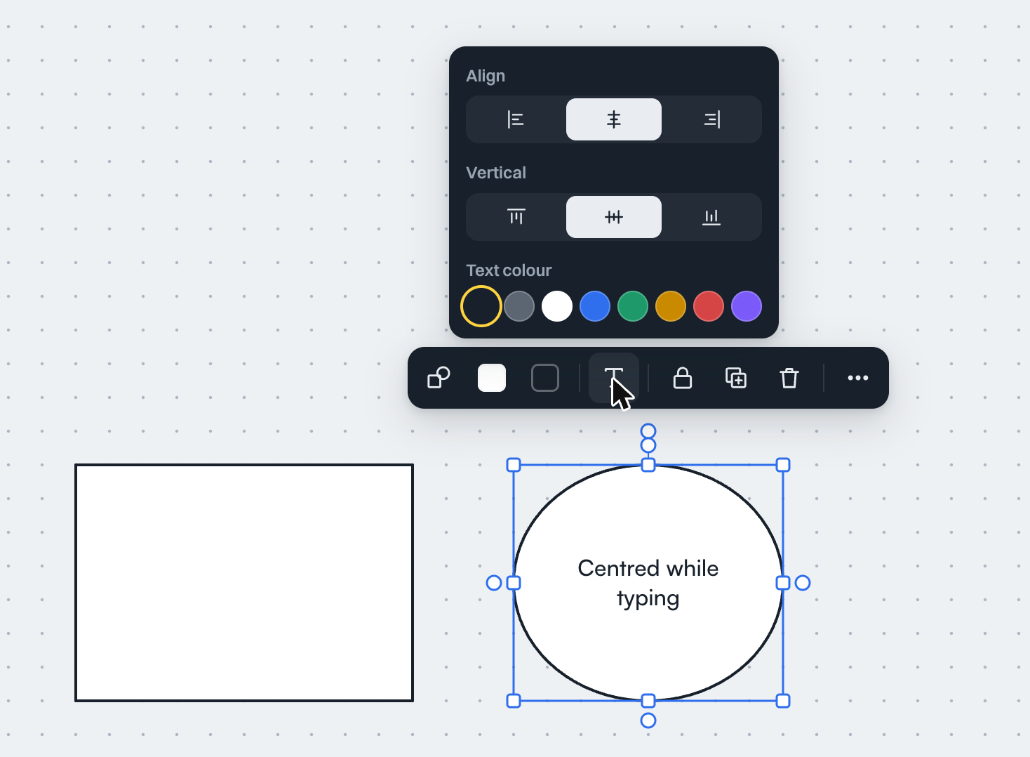
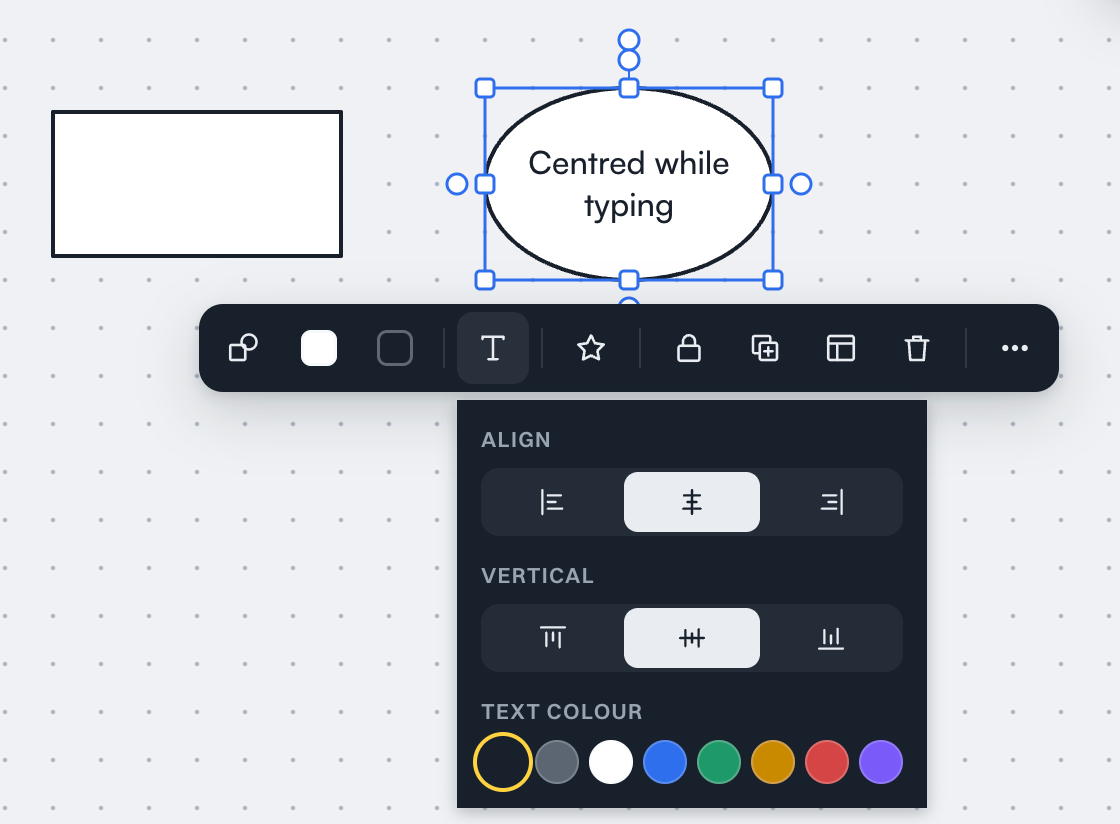
README screenshots (TAB-45): re-capture all nine from current main, with the Tabula name and Swiss UI

diff --git a/README.md b/README.md
@@ -101,13 +101,13 @@ In accounts mode, open **AI tool access** in the board menu, name a token, pick 
 
 | Shapes panel | Quick actions |
 | --- | --- |
-| ![Shapes panel with Basic, Arrows, Callouts and Flowchart groups](docs/images/shapes-panel.png) | ![Quick-action bar above a selected ellipse](docs/images/quick-actions.png) |
+| ![Shapes panel with Basic, Arrows, Callouts and Flowchart groups](docs/images/shapes-panel.png) | ![Quick-action bar next to a selected ellipse](docs/images/quick-actions.png) |
 | **Text options** | **Locked item** |
 | ![Text popover with horizontal and vertical alignment](docs/images/text-options.png) | ![Lock badge shown when hovering a locked item](docs/images/locked-badge.png) |
 | **Themes (Matrix, with the picker)** | **Ayu** |
 | ![Board menu with the theme picker, Matrix theme active](docs/images/themes-menu-matrix.png) | ![Ayu theme on a board](docs/images/theme-ayu.png) |
 | **Accounts: sign in** | **Accounts: home screen with teams** |
-| ![Sign-in screen](docs/images/signin.png) | ![Home screen with Personal, Shared with you and On this device](docs/images/teams-home.png) |
+| ![Sign-in screen](docs/images/signin.png) | ![Boards page with a team, personal boards and boards shared with you](docs/images/teams-home.png) |
 | **Accounts: access removed** | |
 | ![Banner shown when your access to a board is removed](docs/images/access-removed.png) | |
 
